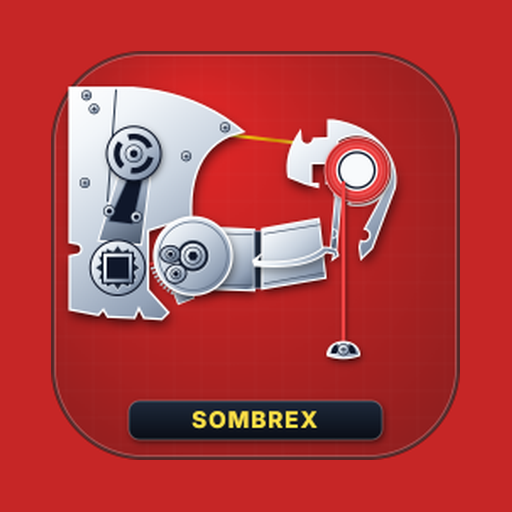
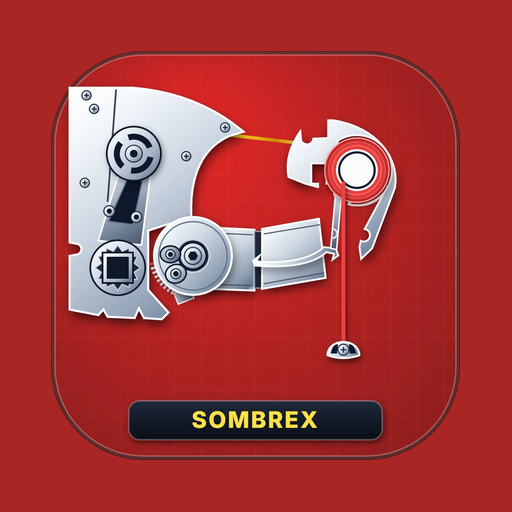
Icono de la app desde el original de 1024 px (más nítido)

diff --git a/sw.js b/sw.js
@@ -1,4 +1,4 @@
-const CACHE_NAME = 'modulbox-sbx-v61';
+const CACHE_NAME = 'modulbox-sbx-v62';
 const APP_SHELL = [
 './',
 './index.html',
